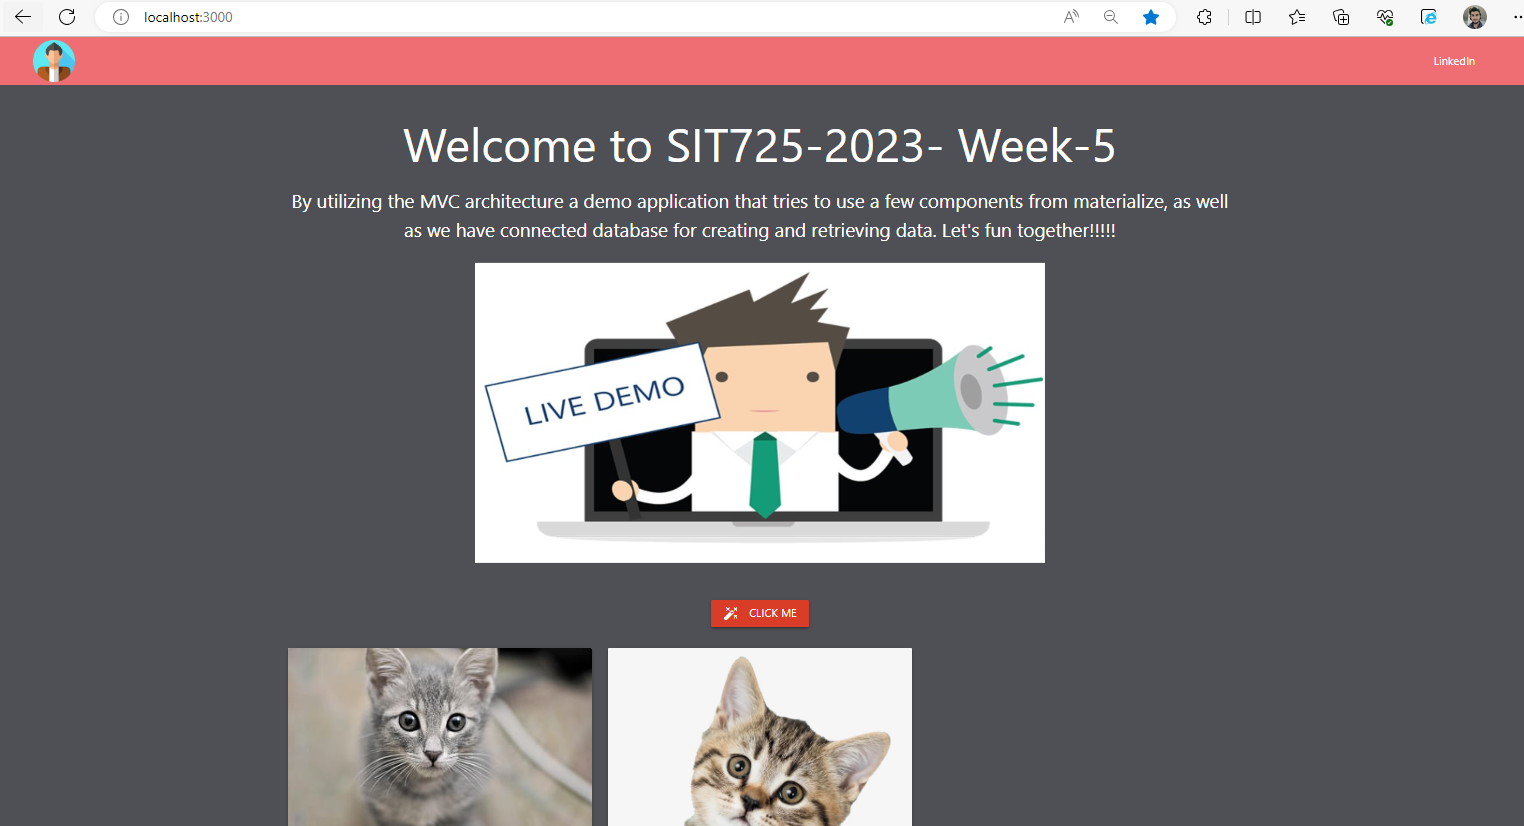
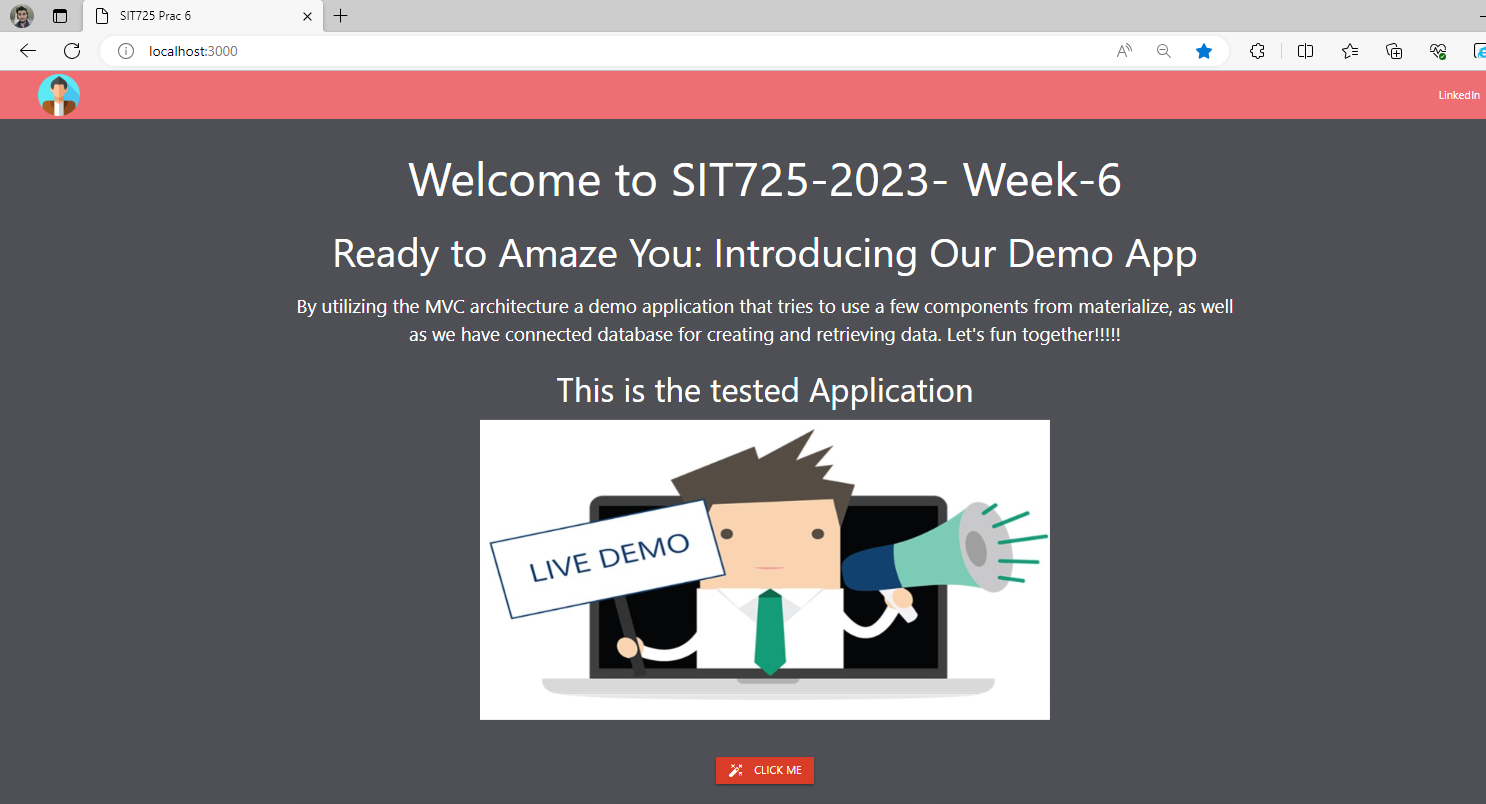
updated contents

diff --git a/view/index.html b/view/index.html
@@ -1,6 +1,6 @@
 <html>
 	<head>
-		<title>SIT725 Prac 5</title>
+		<title>SIT725 Prac 6</title>
 		<link rel="stylesheet" href="https://cdnjs.cloudflare.com/ajax/libs/materialize/1.0.0/css/materialize.min.css">
 		<link rel="stylesheet" href="https://fonts.googleapis.com/icon?family=Material+Icons" >
 		<link rel="stylesheet" href="styles.css">
@@ -19,9 +19,11 @@
 			<div class="container">
 				<div class="row">
 					<div class="col s12 center-align">
-						<h1 id="heading">Welcome to SIT725-2023- Week-5</h1>
+						<h1 id="heading">Welcome to SIT725-2023- Week-6</h1>
+						<h2 id="heading">Ready to Amaze You: Introducing Our Demo App</h2>
 						<p class="flow-text">By utilizing the MVC architecture a demo application that tries to use a few components from materialize, as well as we have connected database for creating and retrieving data. Let's fun together!!!!!
 						</p>
+						<h3 id="heading">This is the Tested Application</h3>
 					</div>
 					<div class="col s12 center-align">
 						<img class="materialboxed materialboxed-image" src="images/livedemo.png">

diff --git a/README.md b/README.md
@@ -1,66 +1,80 @@
 # SIT725-2023-T2-Prac5
-<br>---------------------------------------------------------------<br>
-```Demo Web application by utilizing Professional MVC (Model View Controller)```
-<br>-----------------------------------------------------------------------------------------<br>
-Model, View, and Controller are the three primary logical components that make up an 
-application according to the Model-View-Controller (MVC) architecture, an architectural/design 
-pattern. Each architectural element is designed to manage particular application development 
-facets
--------------------------------------
-![MVC Architecture](https://github.com/Mudasirrr/SIT725-2023-T2-Prac5/blob/mvc/Screen%20shots/mvc%20arc%201.PNG)
---------------
--------
-![MVC Architecture Expend](https://github.com/Mudasirrr/SIT725-2023-T2-Prac5/blob/mvc/Screen%20shots/mvc%20arc%202.PNG)
---------------
 
-For completing this task, I have used the following tools and Framework:<br>
-   # 1. Node. js<br>
-   # 2. Mongodb library<br>
-   # 3. Express.js <br>
-   # 4. Git<br>
-   # 5. GitHub Repository<br>
-   # 6. Vs Code<br>
-   # 7. Mongodb website for creating a database project https://www.mongodb.com/
+`<br>`---------------------------------------------------------------`<br>`
+``Complete Demo Web application by utilizing Professional MVC (Model View Controller), including Testing``
+`<br>`-----------------------------------------------------------------------------------------`<br>`
+
+
+---
+
+# ***For completing this task, I have used the following tools and Framework:`<br>`***
+
+### 1. Node. js `<br>`
+
+### 2. Mongodb library `<br>`
+
+### 3. Express.js `<br>`
+
+### 4. Git `<br>`
+
+### 5. GitHub Repository `<br>`
+
+### 6. Vs Code `<br>`
+
+### 7. Mongodb website for creating a database project https://www.mongodb.com/ `<br> `
+
+### `8.`Mocha and chai packages for Testing
+
 <br>
-   
+
+Model, View, and Controller are the three primary logical components that make up an
+application according to the Model-View-Controller (MVC) architecture, an architectural/design
+pattern. Each architectural element is designed to manage particular application development
+facets
+------
+
+---
+
+
 # How it will work?
 
-1. Clone this repository in your system`<br>
-   ```git init```
-    ```git clone https://github.com/Mudasirrr/SIT725-2023-T2-Prac4.git```
-
-2. Use NPM (Node Package Manager) to install dependencies for this project. <br>
-   ```npm init```
-3. To install express  <br>
-```npm install express``` and <br>
-
-4. To install mongodb: <br>
-```npm install mongodb@4.1.1```<br>
+1. Clone this repository in your system``<br>`
+   ``git init``
+   ``git clone https://github.com/Mudasirrr/SIT725-2023-T2-Prac4.git``
+2. Use NPM (Node Package Manager) to install dependencies for this project. `<br>`
+   ``npm init``
+3. To install express  `<br>`
+   ``npm install express`` and `<br>`
+4. To install mongodb: `<br>`
+   ``npm install mongodb@4.1.1```<br>`
 
 # Note: First you will need to create an account on MongoDB [https://www.mongodb.com/]
+
 If you are new to Mongodb please follow this link (https://www.mongodb.com/basics/get-started)
- 
-5. to start the server, just go to the terminal and write ```npm start or node.server.js```
+
+5. to start the server, just go to the terminal and write ``npm start or node.server.js``
    Note: you should be in the project folder directory
+6. Go to `localhost:3000` on your browser. `<br>`
+   =======================================================================================
 
-6. Go to `localhost:3000` on your browser. <br>
- =======================================================================================
 # Screenshots
-#Overall Interface<br><br>
--------
-![Overall Interface](https://github.com/Mudasirrr/SIT725-2023-T2-Prac5/blob/mvc/Screen%20shots/OOUTPU.PNG)
---------------
-To add new cat:<br>
-1- click on click Me button<br>
-2- Fill the form<br>
-3- Submit<br>
-------
-![Add new cat](https://github.com/Mudasirrr/SIT725-2023-T2-Prac5/blob/mvc/Screen%20shots/add%20cat1.PNG)<br>
------
-#Final Overview:<br>
-----
-![Final Over View](https://github.com/Mudasirrr/SIT725-2023-T2-Prac5/blob/mvc/Screen%20shots/AAdc.PNG)<br>
-------
 
+#Overall Interface`<br><br>`
+------------------
 
-                  ~~~I hope you enjoy it~~~
+To add new cat:`<br>`
+1- click on click Me button`<br>`
+2- Fill the form`<br>`
+3- Submit`<br>`
+---------
+
+![Add new cat](https://github.com/Mudasirrr/SIT725-2023-T2-Prac5/blob/mvc/Screen%20shots/add%20cat1.PNG)`<br>`
+-----------
+
+#Final Overview:`<br>`
+----------------
+
+![Final Over View](https://github.com/Mudasirrr/SIT725-2023-T2-Prac5/blob/mvc/Screen%20shots/AAdc.PNG)`<br>`
+---------------
+
+    ~~~I hope you enjoy it~~~
